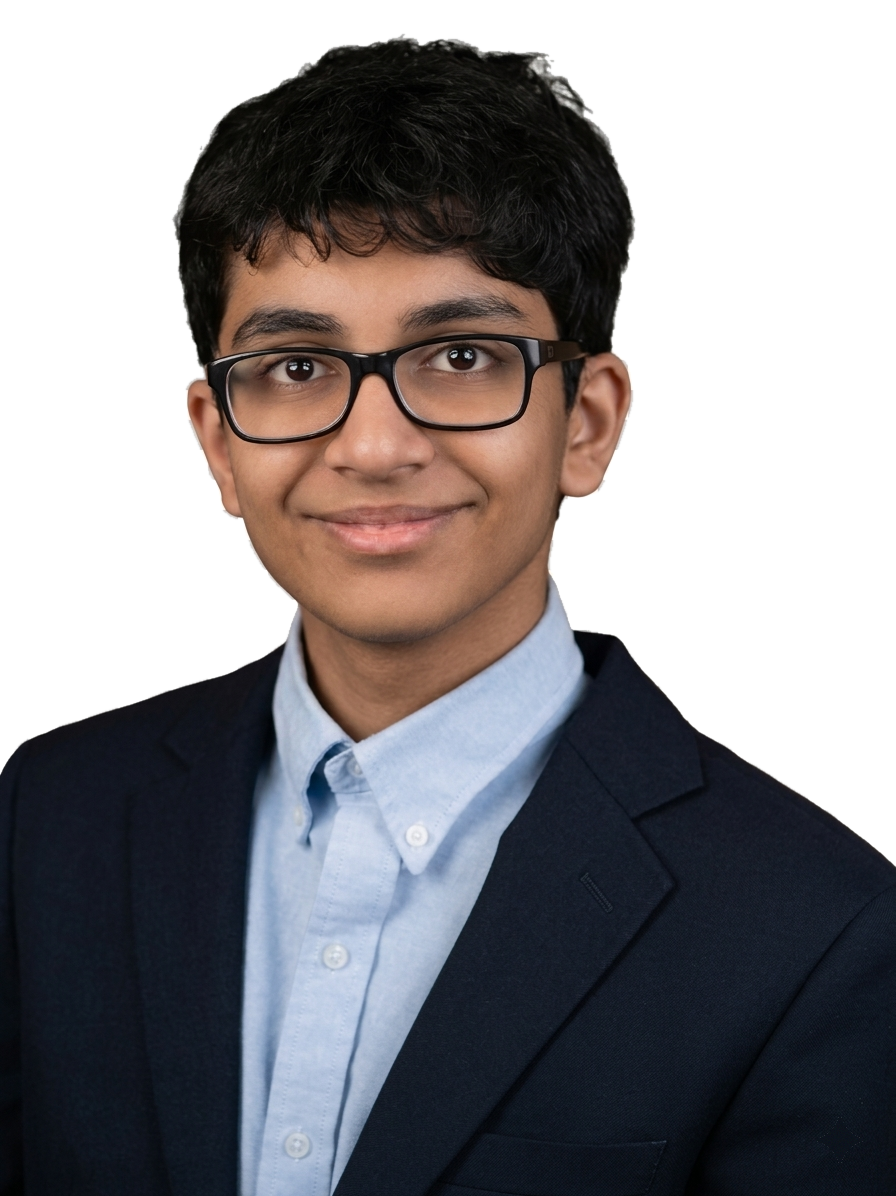
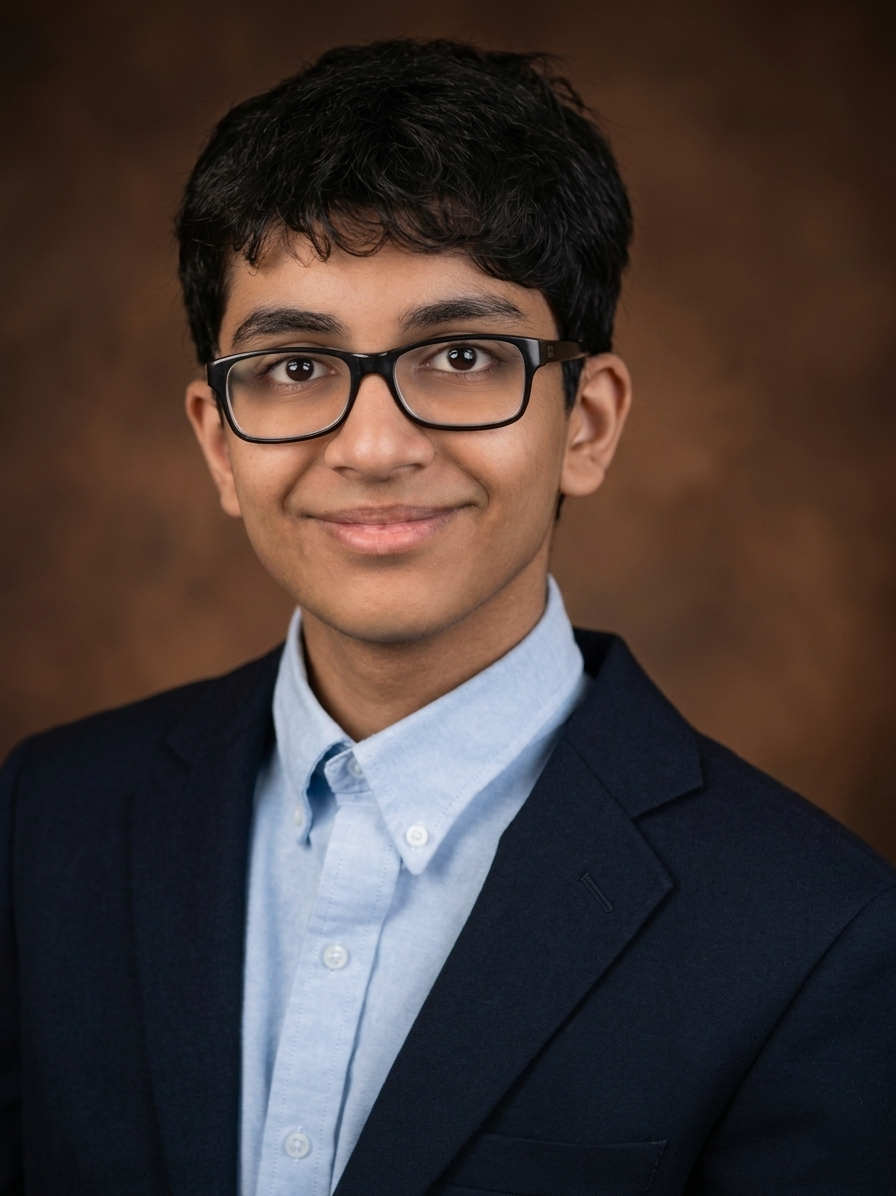
Same thing

diff --git a/css/main.scss b/css/main.scss
@@ -230,30 +230,39 @@ pre code {
 .hero-photo-frame {
   flex: 0 0 auto;
   display: block;
+  padding: 4px;
+  border-radius: 10px;
+  background:
+    linear-gradient(135deg, rgba($accent, 0.95), rgba($accent, 0.35) 55%, rgba($accent, 0.15));
+  box-shadow:
+    0 0 0 1px rgba($accent, 0.25),
+    0 12px 40px -12px rgba($accent, 0.45),
+    0 0 80px -20px rgba($accent, 0.35);
   line-height: 0;
 }
 .hero-photo {
   display: block;
   width: 160px;
   height: auto;
-  filter:
-    drop-shadow(0 0 16px rgba($accent, 0.45))
-    drop-shadow(0 10px 28px rgba($accent, 0.28));
+  border-radius: 7px;
+  background: $bg-elev;
 }
 @media (prefers-reduced-motion: no-preference) {
   @keyframes hero-photo-pulse {
     0%, 100% {
-      filter:
-        drop-shadow(0 0 16px rgba($accent, 0.42))
-        drop-shadow(0 10px 28px rgba($accent, 0.25));
+      box-shadow:
+        0 0 0 1px rgba($accent, 0.25),
+        0 12px 40px -12px rgba($accent, 0.45),
+        0 0 80px -20px rgba($accent, 0.35);
     }
     50% {
-      filter:
-        drop-shadow(0 0 24px rgba($accent, 0.58))
-        drop-shadow(0 12px 34px rgba($accent, 0.36));
+      box-shadow:
+        0 0 0 1px rgba($accent, 0.32),
+        0 14px 48px -10px rgba($accent, 0.55),
+        0 0 100px -14px rgba($accent, 0.55);
     }
   }
-  .hero-photo {
+  .hero-photo-frame {
     animation: hero-photo-pulse 7s ease-in-out infinite;
   }
 }
